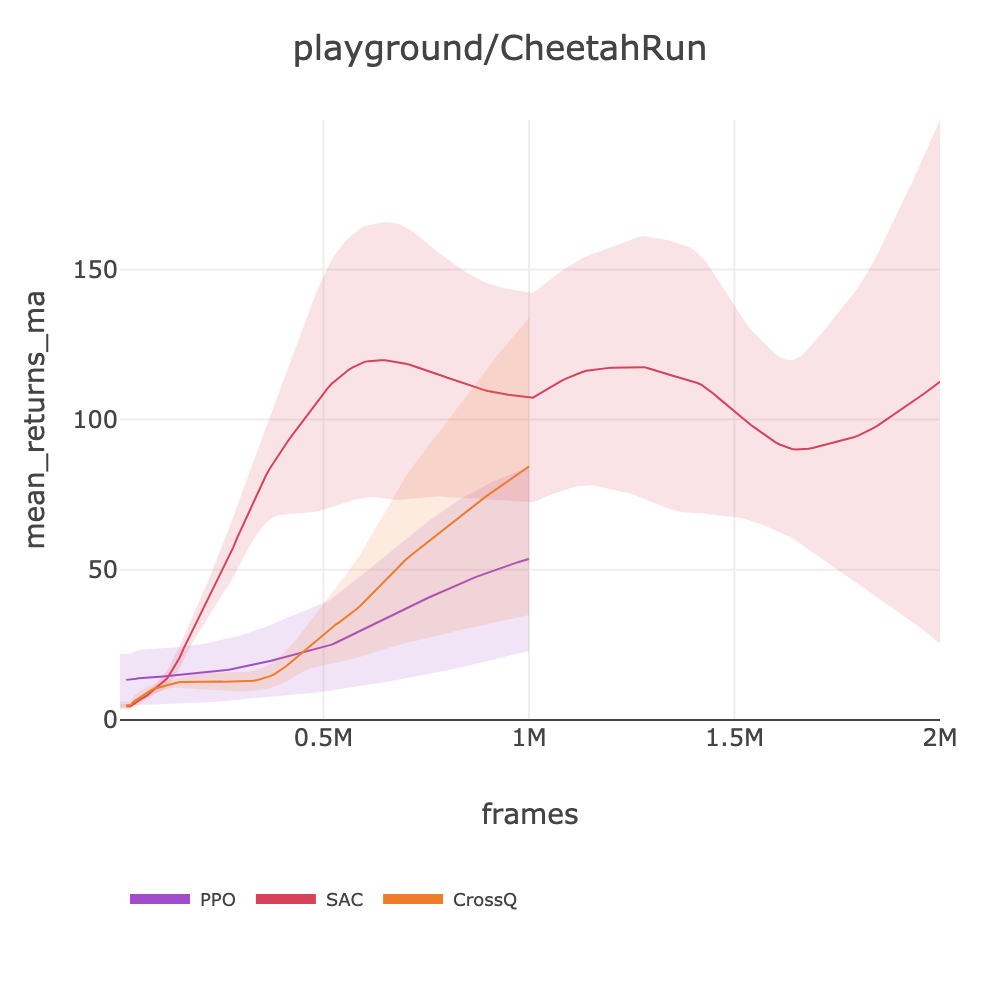
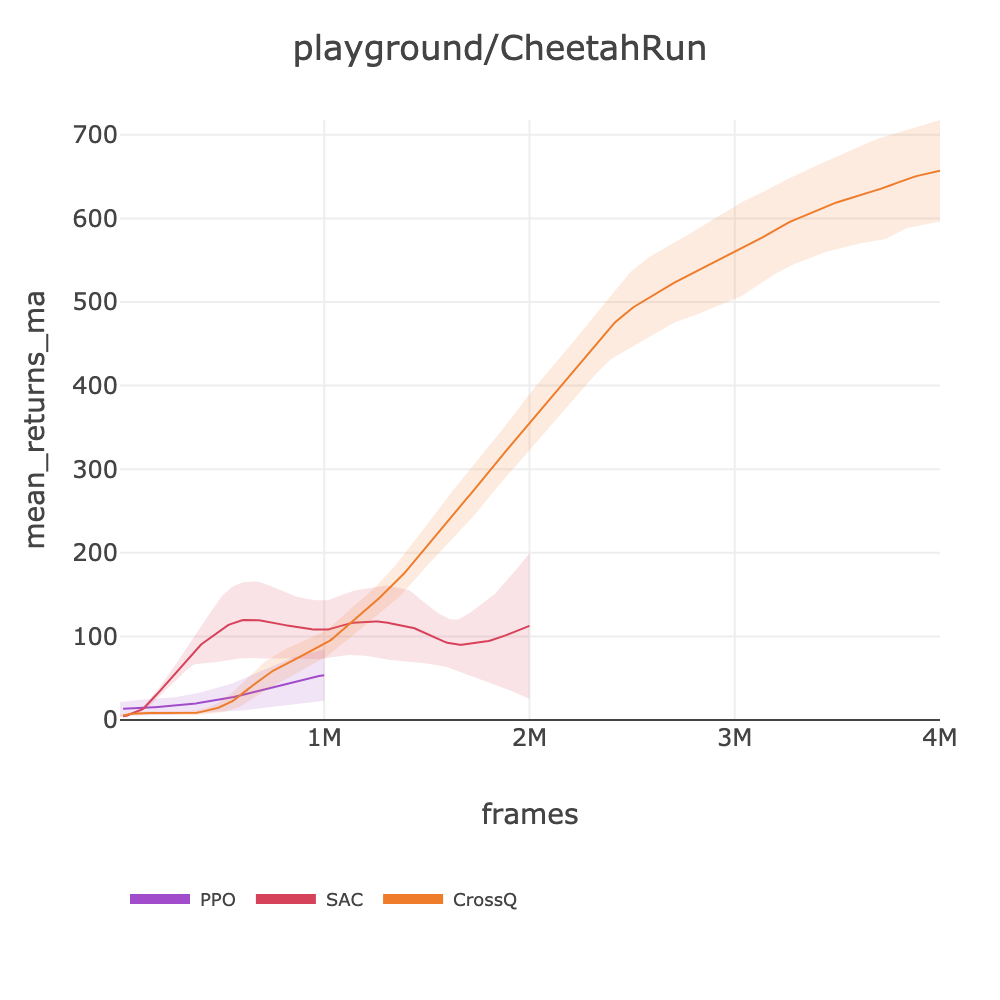
feat: intake CrossQ CheetahRun score=656.92 (4M frames)
Improved from 84.40 (1M vhard) to 656.92 (4M). CrossQ now dominates CheetahRun.
Updated plot with PPO+SAC+CrossQ comparison.

diff --git a/docs/BENCHMARKS.md b/docs/BENCHMARKS.md
@@ -847,7 +847,7 @@ source .env && uv run slm-lab run-remote --gpu --playground \
 | | CrossQ | ❌ | 0.00 | crossq_playground_arc | [crossq_playground_arc_easy_cartpoleswingupsparse_2026_03_07_210420](https://huggingface.co/datasets/SLM-Lab/benchmark-dev/tree/main/data/crossq_playground_arc_easy_cartpoleswingupsparse_2026_03_07_210420) | | ~717 | 2M | ~0.8h |
 | | SAC | ❌ | 0.38 | sac_playground_arc_hard | [sac_playground_arc_utd1_cartpoleswingupsparse_2026_03_06_221127](https://huggingface.co/datasets/SLM-Lab/benchmark-dev/tree/main/data/sac_playground_arc_utd1_cartpoleswingupsparse_2026_03_06_221127) | | ~67 | 1M | ~4.1h |
 | playground/CheetahRun | PPO | ❌ | 53.61 | ppo_playground_arc | [ppo_playground_arc_cheetahrun_2026_03_06_134309](https://huggingface.co/datasets/SLM-Lab/benchmark-dev/tree/main/data/ppo_playground_arc_cheetahrun_2026_03_06_134309) | ~839 | ~2000 | 2M | ~0.3h |
-| | CrossQ | ❌ | 84.40 | crossq_playground_arc_vhard | [crossq_playground_arc_vhard_cheetahrun_2026_03_07_185110](https://huggingface.co/datasets/SLM-Lab/benchmark-dev/tree/main/data/crossq_playground_arc_vhard_cheetahrun_2026_03_07_185110) | | ~130 | 1M | ~2.1h |
+| | CrossQ | ❌ | 656.92 | crossq_playground_arc | [crossq_playground_arc_vhard_cheetahrun_2026_03_10_095147](https://huggingface.co/datasets/SLM-Lab/benchmark-dev/tree/main/data/crossq_playground_arc_vhard_cheetahrun_2026_03_10_095147) | | ~499 | 4M | ~2.2h |
 | | SAC | ❌ | 112.59 | sac_playground_arc_fast | [sac_playground_arc_cheetahrun_2026_03_06_094013](https://huggingface.co/datasets/SLM-Lab/benchmark-dev/tree/main/data/sac_playground_arc_cheetahrun_2026_03_06_094013) | | ~140 | 2M | ~4.0h |
 | playground/FingerSpin | PPO | ❌ | 416.99 | ppo_playground_arc | [ppo_playground_arc_fingerspin_2026_03_07_100519](https://huggingface.co/datasets/SLM-Lab/benchmark-dev/tree/main/data/ppo_playground_arc_fingerspin_2026_03_07_100519) | ~742 | ~410 | 4M | ~2.7h |
 | | CrossQ | ❌ | 240.68 | crossq_playground_arc | [crossq_playground_arc_easy_fingerspin_2026_03_07_185137](https://huggingface.co/datasets/SLM-Lab/benchmark-dev/tree/main/data/crossq_playground_arc_easy_fingerspin_2026_03_07_185137) | | ~300 | 2M | ~1.9h |
